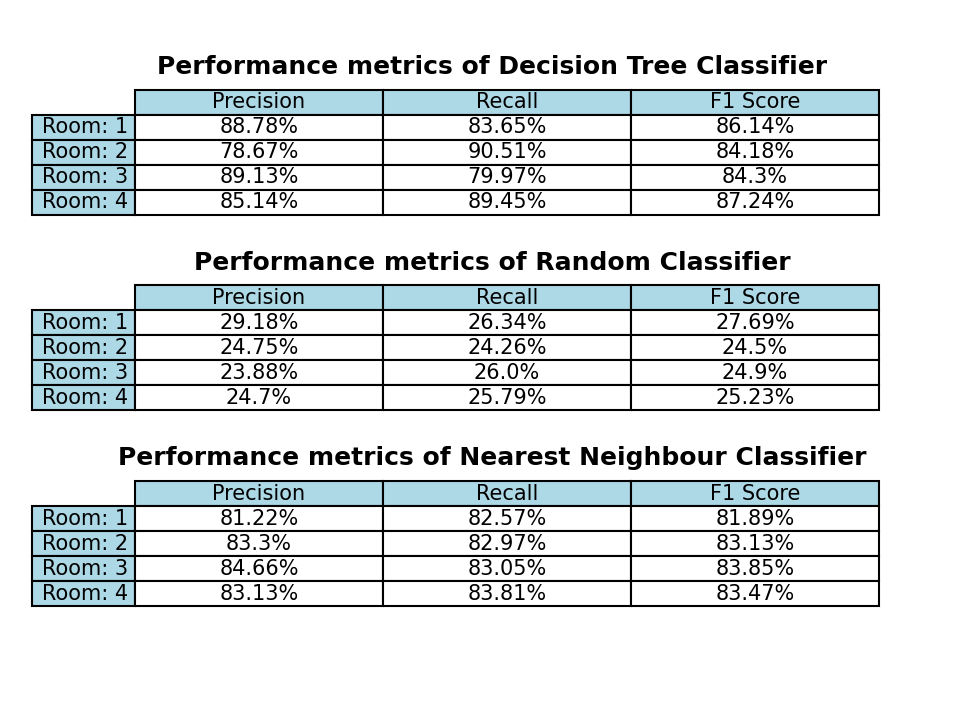
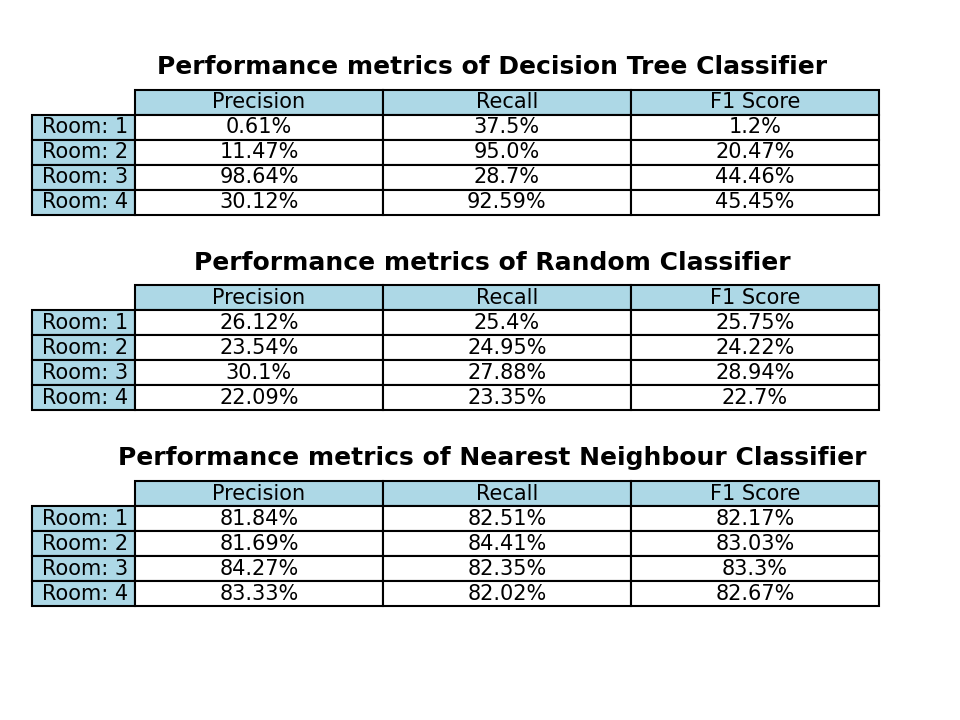
fixing confusion matrix

diff --git a/main.py b/main.py
@@ -16,12 +16,12 @@ print("Tree depth:", depth)
 
 dataset = np.loadtxt(dataset_path)
 
-test = Decision_Tree_Classifier.Tree(dataset, max_depth = depth)
+#test = Decision_Tree_Classifier.Tree(dataset, max_depth = depth)
 #print(test.evaluate([[-68,	-58,	-65,	-65,	-76,	-87,	-82,	1]]))
-test.show()
+#test.show()
 
-#benchmark = TB.Model_Comparison_TB(dataset, 10, depth, Decision_Tree_Classifier.Tree, Other_Classifiers.RandomClassifier, Other_Classifiers.NNClassifier)
-#benchmark.all_metrics()
+benchmark = TB.Model_Comparison_TB(dataset, 10, depth, Decision_Tree_Classifier.Tree, Other_Classifiers.RandomClassifier, Other_Classifiers.NNClassifier)
+benchmark.all_metrics()
 
 #benchmark.precision()
 #benchmark.plotNorm()

diff --git a/Testbenches.py b/Testbenches.py
@@ -120,6 +120,8 @@ class Model_Comparison_TB():
 
                 (labels, actual, guess) = specific_model.confusion_constructor()
                 
+                if model == Decision_Tree_Classifier.Tree: print([actual, guess])
+                
                 
                 name = specific_model.name()
                 if name not in list(confusion.keys()):
@@ -476,7 +478,7 @@ def confusion_matrix(actuals, predictions, class_labels=None):
   if class_labels is None:
       class_labels = np.unique(np.concatenate((actuals, predictions)))
 
-  confusion = np.zeros((len(class_labels), len(class_labels)), dtype=int)
+  confusion = np.zeros((len(class_labels), len(class_labels)), dtype=float)
 
      
 
